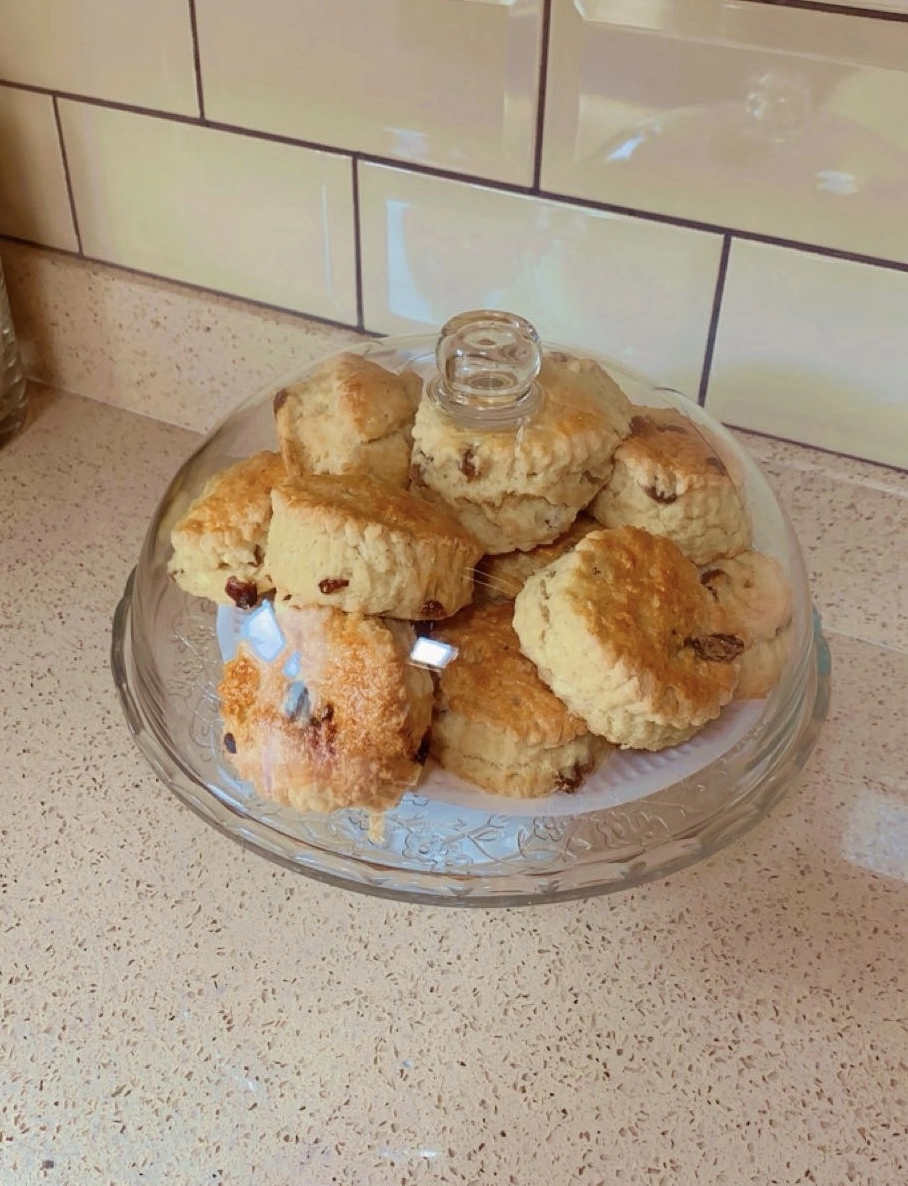
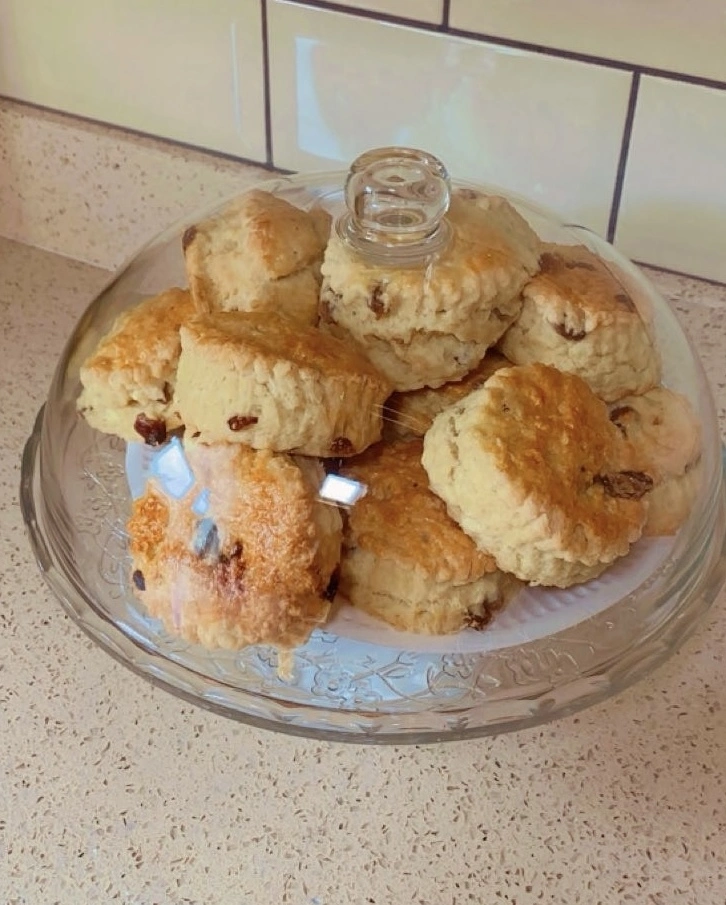
edit recipe image size1

diff --git a/recipes.html b/recipes.html
@@ -125,7 +125,7 @@
                   </p>
                </div>
                <div class="recipe-images">
-                  <img src="assets/images/fruit-scone_1_.webp" alt="Fruit scones">
+                  <img src="assets/images/fruit-scone.webp" alt="Fruit scones">
                </div>
             </div>
             <div class="instructions">
